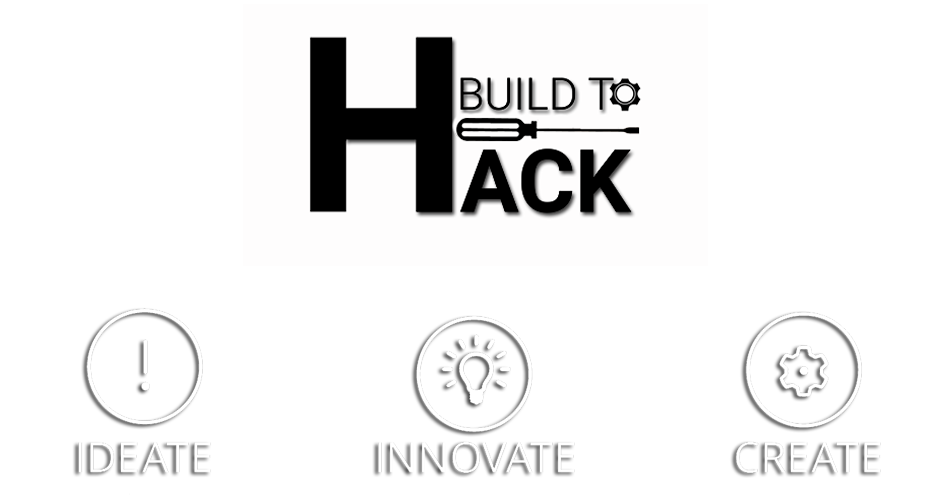
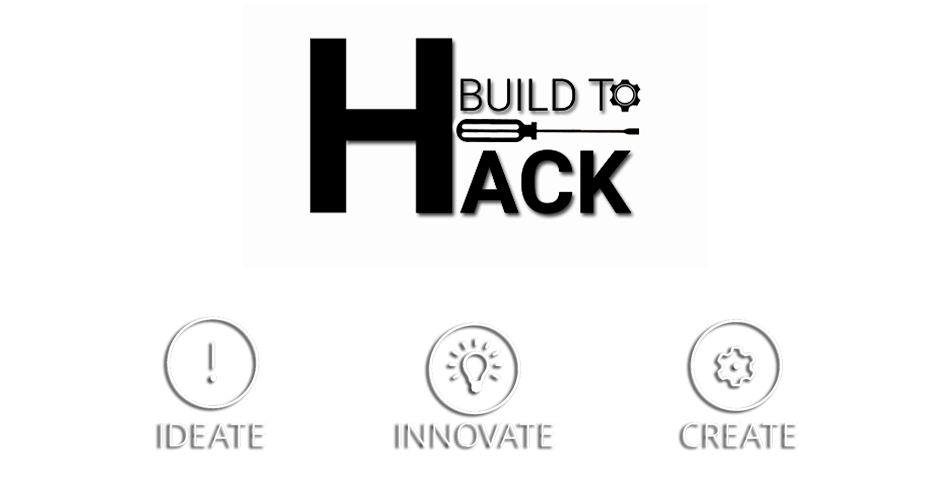
Changes

diff --git a/js/midnight.jquery.min.js b/js/midnight.jquery.min.js
@@ -1,0 +1,11 @@
+/*!
+ * Midnight.js 1.1.1
+ * jQuery plugin to switch between multiple fixed header designs on the fly, so it looks in line with the content below it.
+ * http://aerolab.github.io/midnight.js/
+ *
+ * Copyright (c) 2014 Aerolab <info@aerolab.co>
+ *
+ * Released under the MIT license
+ * http://aerolab.github.io/midnight.js/LICENSE.txt
+ */
+!function(t){"function"==typeof define&&define.amd?define(["jquery"],t):t(jQuery)}(function(t){var e=0,s=Array.prototype.slice;t.cleanData=function(e){return function(s){var i,n,o;for(o=0;null!=(n=s[o]);o++)try{i=t._data(n,"events"),i&&i.remove&&t(n).triggerHandler("remove")}catch(r){}e(s)}}(t.cleanData),t.widget=function(e,s,i){var n,o,r,a,h={},d=e.split(".")[0];return e=e.split(".")[1],n=d+"-"+e,i||(i=s,s=t.Widget),t.expr[":"][n.toLowerCase()]=function(e){return!!t.data(e,n)},t[d]=t[d]||{},o=t[d][e],r=t[d][e]=function(t,e){return this._createWidget?void(arguments.length&&this._createWidget(t,e)):new r(t,e)},t.extend(r,o,{version:i.version,_proto:t.extend({},i),_childConstructors:[]}),a=new s,a.options=t.widget.extend({},a.options),t.each(i,function(e,i){return t.isFunction(i)?void(h[e]=function(){var t=function(){return s.prototype[e].apply(this,arguments)},n=function(t){return s.prototype[e].apply(this,t)};return function(){var e,s=this._super,o=this._superApply;return this._super=t,this._superApply=n,e=i.apply(this,arguments),this._super=s,this._superApply=o,e}}()):void(h[e]=i)}),r.prototype=t.widget.extend(a,{widgetEventPrefix:o?a.widgetEventPrefix||e:e},h,{constructor:r,namespace:d,widgetName:e,widgetFullName:n}),o?(t.each(o._childConstructors,function(e,s){var i=s.prototype;t.widget(i.namespace+"."+i.widgetName,r,s._proto)}),delete o._childConstructors):s._childConstructors.push(r),t.widget.bridge(e,r),r},t.widget.extend=function(e){for(var i,n,o=s.call(arguments,1),r=0,a=o.length;a>r;r++)for(i in o[r])n=o[r][i],o[r].hasOwnProperty(i)&&void 0!==n&&(e[i]=t.isPlainObject(n)?t.isPlainObject(e[i])?t.widget.extend({},e[i],n):t.widget.extend({},n):n);return e},t.widget.bridge=function(e,i){var n=i.prototype.widgetFullName||e;t.fn[e]=function(o){var r="string"==typeof o,a=s.call(arguments,1),h=this;return o=!r&&a.length?t.widget.extend.apply(null,[o].concat(a)):o,r?this.each(function(){var s,i=t.data(this,n);return"instance"===o?(h=i,!1):i?t.isFunction(i[o])&&"_"!==o.charAt(0)?(s=i[o].apply(i,a),s!==i&&void 0!==s?(h=s&&s.jquery?h.pushStack(s.get()):s,!1):void 0):t.error("no such method '"+o+"' for "+e+" widget instance"):t.error("cannot call methods on "+e+" prior to initialization; attempted to call method '"+o+"'")}):this.each(function(){var e=t.data(this,n);e?(e.option(o||{}),e._init&&e._init()):t.data(this,n,new i(o,this))}),h}},t.Widget=function(){},t.Widget._childConstructors=[],t.Widget.prototype={widgetName:"widget",widgetEventPrefix:"",defaultElement:"<div>",options:{disabled:!1,create:null},_createWidget:function(s,i){i=t(i||this.defaultElement||this)[0],this.element=t(i),this.uuid=e++,this.eventNamespace="."+this.widgetName+this.uuid,this.bindings=t(),this.hoverable=t(),this.focusable=t(),i!==this&&(t.data(i,this.widgetFullName,this),this._on(!0,this.element,{remove:function(t){t.target===i&&this.destroy()}}),this.document=t(i.style?i.ownerDocument:i.document||i),this.window=t(this.document[0].defaultView||this.document[0].parentWindow)),this.options=t.widget.extend({},this.options,this._getCreateOptions(),s),this._create(),this._trigger("create",null,this._getCreateEventData()),this._init()},_getCreateOptions:t.noop,_getCreateEventData:t.noop,_create:t.noop,_init:t.noop,destroy:function(){this._destroy(),this.element.unbind(this.eventNamespace).removeData(this.widgetFullName).removeData(t.camelCase(this.widgetFullName)),this.widget().unbind(this.eventNamespace).removeAttr("aria-disabled").removeClass(this.widgetFullName+"-disabled ui-state-disabled"),this.bindings.unbind(this.eventNamespace),this.hoverable.removeClass("ui-state-hover"),this.focusable.removeClass("ui-state-focus")},_destroy:t.noop,widget:function(){return this.element},option:function(e,s){var i,n,o,r=e;if(0===arguments.length)return t.widget.extend({},this.options);if("string"==typeof e)if(r={},i=e.split("."),e=i.shift(),i.length){for(n=r[e]=t.widget.extend({},this.options[e]),o=0;i.length-1>o;o++)n[i[o]]=n[i[o]]||{},n=n[i[o]];if(e=i.pop(),1===arguments.length)return void 0===n[e]?null:n[e];n[e]=s}else{if(1===arguments.length)return void 0===this.options[e]?null:this.options[e];r[e]=s}return this._setOptions(r),this},_setOptions:function(t){var e;for(e in t)this._setOption(e,t[e]);return this},_setOption:function(t,e){return this.options[t]=e,"disabled"===t&&(this.widget().toggleClass(this.widgetFullName+"-disabled",!!e),e&&(this.hoverable.removeClass("ui-state-hover"),this.focusable.removeClass("ui-state-focus"))),this},enable:function(){return this._setOptions({disabled:!1})},disable:function(){return this._setOptions({disabled:!0})},_on:function(e,s,i){var n,o=this;"boolean"!=typeof e&&(i=s,s=e,e=!1),i?(s=n=t(s),this.bindings=this.bindings.add(s)):(i=s,s=this.element,n=this.widget()),t.each(i,function(i,r){function a(){return e||o.options.disabled!==!0&&!t(this).hasClass("ui-state-disabled")?("string"==typeof r?o[r]:r).apply(o,arguments):void 0}"string"!=typeof r&&(a.guid=r.guid=r.guid||a.guid||t.guid++);var h=i.match(/^([\w:-]*)\s*(.*)$/),d=h[1]+o.eventNamespace,l=h[2];l?n.delegate(l,d,a):s.bind(d,a)})},_off:function(e,s){s=(s||"").split(" ").join(this.eventNamespace+" ")+this.eventNamespace,e.unbind(s).undelegate(s),this.bindings=t(this.bindings.not(e).get()),this.focusable=t(this.focusable.not(e).get()),this.hoverable=t(this.hoverable.not(e).get())},_delay:function(t,e){function s(){return("string"==typeof t?i[t]:t).apply(i,arguments)}var i=this;return setTimeout(s,e||0)},_hoverable:function(e){this.hoverable=this.hoverable.add(e),this._on(e,{mouseenter:function(e){t(e.currentTarget).addClass("ui-state-hover")},mouseleave:function(e){t(e.currentTarget).removeClass("ui-state-hover")}})},_focusable:function(e){this.focusable=this.focusable.add(e),this._on(e,{focusin:function(e){t(e.currentTarget).addClass("ui-state-focus")},focusout:function(e){t(e.currentTarget).removeClass("ui-state-focus")}})},_trigger:function(e,s,i){var n,o,r=this.options[e];if(i=i||{},s=t.Event(s),s.type=(e===this.widgetEventPrefix?e:this.widgetEventPrefix+e).toLowerCase(),s.target=this.element[0],o=s.originalEvent)for(n in o)n in s||(s[n]=o[n]);return this.element.trigger(s,i),!(t.isFunction(r)&&r.apply(this.element[0],[s].concat(i))===!1||s.isDefaultPrevented())}},t.each({show:"fadeIn",hide:"fadeOut"},function(e,s){t.Widget.prototype["_"+e]=function(i,n,o){"string"==typeof n&&(n={effect:n});var r,a=n?n===!0||"number"==typeof n?s:n.effect||s:e;n=n||{},"number"==typeof n&&(n={duration:n}),r=!t.isEmptyObject(n),n.complete=o,n.delay&&i.delay(n.delay),r&&t.effects&&t.effects.effect[a]?i[e](n):a!==e&&i[a]?i[a](n.duration,n.easing,o):i.queue(function(s){t(this)[e](),o&&o.call(i[0]),s()})}}),t.widget}),function(t){"use strict";t.widget("aerolab.midnight",{options:{headerClass:"midnightHeader",innerClass:"midnightInner",defaultClass:"default",classPrefix:""},_headers:{},_headerInfo:{top:0,height:0},_$sections:[],_sections:[],_scrollTop:0,_documentHeight:0,_transformMode:!1,refresh:function(){this._headerInfo={top:0,height:this.element.outerHeight()},this._$sections=t("[data-midnight]"),this._sections=[],this._setupHeaders(),this.recalculate()},_create:function(){var e=this;this._scrollTop=window.pageYOffset||document.documentElement.scrollTop,this._documentHeight=t(document).height(),this._headers={},this._transformMode=this._getSupportedTransform(),this.refresh(),setInterval(function(){e._recalculateSections()},1e3),e.recalculate(),t(window).resize(function(){e.recalculate()}),this._updateHeadersLoop()},recalculate:function(){this._recalculateSections(),this._updateHeaderHeight(),this._recalculateHeaders(),this._updateHeaders()},_getSupportedTransform:function(){for(var t=["transform","WebkitTransform","MozTransform","OTransform","msTransform"],e=0;e<t.length;e++)if(void 0!==document.createElement("div").style[t[e]])return t[e];return!1},_getContainerHeight:function(){var e=this.element.find("> ."+this.options.headerClass),s=0,i=0,n=this;return e.length?e.each(function(){var e=t(this),o=e.find("> ."+n.options.innerClass);o.length?(o.css("bottom","auto").css("overflow","auto"),i=o.outerHeight(),o.css("bottom","0")):(e.css("bottom","auto"),i=e.outerHeight(),e.css("bottom","0")),s=i>s?i:s}):s=i=this.element.outerHeight(),s},_setupHeaders:function(){var e=this;this._headers[this.options.defaultClass]={},this._$sections.each(function(){var s=t(this),i=s.data("midnight");"string"==typeof i&&(i=i.trim(),""!==i&&(e._headers[i]={}))});({top:this.element.css("padding-top"),right:this.element.css("padding-right"),bottom:this.element.css("padding-bottom"),left:this.element.css("padding-left")});this.element.css({position:"fixed",top:0,left:0,right:0,overflow:"hidden"}),this._updateHeaderHeight();var s=this.element.find("> ."+this.options.headerClass);s.length?s.filter("."+this.options.defaultClass).length||s.filter("."+this.options.headerClass+":first").clone(!0,!0).attr("class",this.options.headerClass+" "+this.options.defaultClass):this.element.wrapInner('<div class="'+this.options.headerClass+" "+this.options.defaultClass+'"></div>');var s=this.element.find("> ."+this.options.headerClass),i=s.filter("."+this.options.defaultClass).clone(!0,!0);for(var n in this._headers)if(this._headers.hasOwnProperty(n)&&"undefined"==typeof this._headers[n].element){var o=s.filter("."+n);o.length?this._headers[n].element=o:this._headers[n].element=i.clone(!0,!0).removeClass(this.options.defaultClass).addClass(n).appendTo(this.element);var r={position:"absolute",overflow:"hidden",top:0,left:0,right:0,bottom:0};this._headers[n].element.css(r),this._transformMode!==!1&&this._headers[n].element.css(this._transformMode,"translateZ(0)"),this._headers[n].element.find("> ."+this.options.innerClass).length||this._headers[n].element.wrapInner('<div class="'+this.options.innerClass+'"></div>'),this._headers[n].inner=this._headers[n].element.find("> ."+this.options.innerClass),this._headers[n].inner.css(r),this._transformMode!==!1&&this._headers[n].inner.css(this._transformMode,"translateZ(0)"),this._headers[n].from="",this._headers[n].progress=0}s.each(function(){var s=t(this),i=!1;for(var n in e._headers)e._headers.hasOwnProperty(n)&&s.hasClass(n)&&(i=!0);s.find("> ."+e.options.innerClass).length||s.wrapInner('<div class="'+e.options.innerClass+'"></div>'),i?s.show():s.hide()})},_recalculateHeaders:function(){this._scrollTop=window.pageYOffset||document.body.scrollTop||document.documentElement.scrollTop,this._scrollTop=Math.max(this._scrollTop,0),this._scrollTop=Math.min(this._scrollTop,this._documentHeight);var t=this._headerInfo.height,e=this._scrollTop+this._headerInfo.top,s=e+t;if("function"==typeof window.getComputedStyle){var i=window.getComputedStyle(this.element[0],null),n=0,o=0;if(this._transformMode!==!1&&"string"==typeof i.transform){var r=i.transform.match(/(-?[0-9\.]+)/g);null!==r&&r.length>=6&&!isNaN(parseFloat(r[5]))&&(o=parseFloat(r[5]))}i.top.indexOf("px")>=0&&!isNaN(parseFloat(i.top))&&(n=parseFloat(i.top)),e+=n+o,s+=n+o}for(var a in this._headers)this._headers.hasOwnProperty(a)&&(this._headers[a].from="",this._headers[a].progress=0);for(var h=0;h<this._sections.length;h++)s>=this._sections[h].start&&e<=this._sections[h].end&&(this._headers[this._sections[h].className].visible=!0,e>=this._sections[h].start&&s<=this._sections[h].end?(this._headers[this._sections[h].className].from="top",this._headers[this._sections[h].className].progress+=1):s>this._sections[h].end&&e<this._sections[h].end?(this._headers[this._sections[h].className].from="top",this._headers[this._sections[h].className].progress=1-(s-this._sections[h].end)/t):s>this._sections[h].start&&e<this._sections[h].start&&("top"===this._headers[this._sections[h].className].from?this._headers[this._sections[h].className].progress+=(s-this._sections[h].start)/t:(this._headers[this._sections[h].className].from="bottom",this._headers[this._sections[h].className].progress=(s-this._sections[h].start)/t)))},_updateHeaders:function(){if("undefined"!=typeof this._headers[this.options.defaultClass]){var t=0,e="";for(var s in this._headers)this._headers.hasOwnProperty(s)&&""!==!this._headers[s].from&&(t+=this._headers[s].progress,e=s);1>t&&(""===this._headers[this.options.defaultClass].from?(this._headers[this.options.defaultClass].from="top"===this._headers[e].from?"bottom":"top",this._headers[this.options.defaultClass].progress=1-t):this._headers[this.options.defaultClass].progress+=1-t);for(var i in this._headers)if(this._headers.hasOwnProperty(i)&&""!==!this._headers[i].from){var n=100*(1-this._headers[i].progress);n>=100&&(n=110),-100>=n&&(n=-110),"top"===this._headers[i].from?this._transformMode!==!1?(this._headers[i].element[0].style[this._transformMode]="translateY(-"+n+"%) translateZ(0)",this._headers[i].inner[0].style[this._transformMode]="translateY(+"+n+"%) translateZ(0)"):(this._headers[i].element[0].style.top="-"+n+"%",this._headers[i].inner[0].style.top="+"+n+"%"):this._transformMode!==!1?(this._headers[i].element[0].style[this._transformMode]="translateY(+"+n+"%) translateZ(0)",this._headers[i].inner[0].style[this._transformMode]="translateY(-"+n+"%) translateZ(0)"):(this._headers[i].element[0].style.top="+"+n+"%",this._headers[i].inner[0].style.top="-"+n+"%")}}},_recalculateSections:function(){this._documentHeight=t(document).height(),this._sections=[];for(var e=0;e<this._$sections.length;e++){var s=t(this._$sections[e]);this._sections.push({element:s,className:s.data("midnight"),start:s.offset().top,end:s.offset().top+s.outerHeight()})}},_updateHeaderHeight:function(){this._headerInfo.height=this._getContainerHeight(),this.element.css("height",this._headerInfo.height+"px")},_updateHeadersLoop:function(){var t=this;this._requestAnimationFrame(function(){t._updateHeadersLoop()}),this._recalculateHeaders(),this._updateHeaders()},_requestAnimationFrame:function(t){var e=e||function(){return window.requestAnimationFrame||window.webkitRequestAnimationFrame||window.mozRequestAnimationFrame||function(t){window.setTimeout(t,1e3/60)}}();e(t)}})}(jQuery);

diff --git a/index.html b/index.html
@@ -10,29 +10,32 @@
  <script src="http://code.jquery.com/jquery-1.11.2.min.js"></script>
 <link href="http://www.jqueryscript.net/css/jquerysctipttop.css" rel="stylesheet" type="text/css">
 	<script type="text/javascript" src="css/typewriting.min.js"></script>
+	
  </head>
 
   <body>
  
  
-<div id="softarea" class="softarea"></div>
-<div id="blurarea" class="blurarea"></div>
+
 <nav class="navbar navbar-inverse navbar-fixed-top">
   <div class="container-fluid">
     <div class="navbar-header">
       <a class="navbar-brand" href="#"><img src="images/PictureLogo.png" style="margin-top:-13;"></a>
       <a class="navbar-brand pull-right"  href="#"><img src="images/header-menu.png" style="margin-top:-13;" id="menuicon"></a>
     </div>
-    <ul class="nav navbar-nav">
-      <li><a href="#">HOME</a></li>
-      <li><a href="#">SCHEDULE</a></li>
-      <li><a href="#">MATERIAL</a></li> 
-      <li><a href="#">REGISTER</a></li>
-      <li><a href="#">SPONSORS</a></li>  
+    <ul class="nav navbar-nav" style="font-family:venus rising">
+      <li class="active"><a href="#">HOME</a></li>
+      <li><a href="#schedule">SCHEDULE</a></li>
+      <li><a href="#material">MATERIAL</a></li> 
+      <li><a href="#register">REGISTER</a></li>
+      <li><a href="#sponsors">SPONSORS</a></li>  
       
     </ul>
   </div>
 </nav>
+
+
+
 <!-- <div class="terminal" style="margin-top: 5%;"></div> -->
     <script>
 $(document).ready( function(){
@@ -68,8 +71,11 @@ $(document).ready( function(){
   })();
 
 </script>
-
+<div id="home">
+<div id="softarea" class="softarea"></div>
+<div id="blurarea" class="blurarea"></div>
 <div id="header" class="header"><img onload="this.style.opacity='1';" src="images/Picture1.png" id="logo" style=" width:100%;margin-top: 4%;"></div>
+</div>
 
 
     <svg:svg>
@@ -79,7 +85,25 @@ $(document).ready( function(){
 	</svg:svg>
 
 <div id="scroll" style="position: absolute;bottom: 0;right: 0;"><a href="#"><img onload="this.style.opacity='1';" src="images/scroll.png"></a></div>
+<div id="schedule" style="height:700px;
+width: 100%;">
+<h2>SCHEDULE</h2>
+</div>
 
+<div id="material" style="height: 700px;
+width: 100%;">
+<h2>MATERIAL</h2>
+</div>
+
+<div id="register" style="height: 700px;
+width: 100%;">
+<h2>REGISTER</h2>
+</div>
+
+<div id="sponsors" style="height: 700px;
+width: 100%;">
+<h2>SPONSORS</h2>
+</div>
 
 <script type="text/javascript">
 
@@ -151,7 +175,28 @@ function adjustStyle(width)
     				
         	}
     }
-       
+
+   $(document).scroll(function(){
+    if($(this).scrollTop() >300)
+    {     
+    $("#header").animate({opacity: "0.1"},2000);   
+    }
+     
+});
+    $(document).scroll(function(){
+    if($(this).scrollTop()<100)
+    {     
+    $("#header").animate({opacity: "1"},1000);   
+    }
+     
+});
+    
+    $(document).ready(function(){
+  $('.navbar.container-fluid ul li a').click(function(){
+    $('li a').removeClass("active");
+    $(this).addClass("active");
+});
+});   
 
 
 </script>

diff --git a/main.js b/main.js
@@ -1,0 +1,33 @@
+
+$(document).ready( function(){
+	setTimeout( function(){
+		$('.terminal').typewriting( "TAG Club ,VIT Brings Build-to-Hack", {
+			"typing_interval": 200,
+			"blink_interval": "1s",
+			"cursor_color": "#C5E3BF"
+		}, function() {
+			console.log( "END" );
+		});
+		
+		setTimeout( function(){
+			$('.terminal').rewrite( "Stay tuned for updates", function(){
+				console.log( "END, 2." );
+			});
+		}, 3300);
+	}, 1000);
+});
+
+
+
+  var _gaq = _gaq || [];
+  _gaq.push(['_setAccount', 'UA-36251023-1']);
+  _gaq.push(['_setDomainName', 'jqueryscript.net']);
+  _gaq.push(['_trackPageview']);
+
+  (function() {
+    var ga = document.createElement('script'); ga.type = 'text/javascript'; ga.async = true;
+    ga.src = ('https:' == document.location.protocol ? 'https://ssl' : 'http://www') + '.google-analytics.com/ga.js';
+    var s = document.getElementsByTagName('script')[0]; s.parentNode.insertBefore(ga, s);
+  })();
+
+

diff --git a/css/style.css b/css/style.css
@@ -1,4 +1,7 @@
 
+#home{
+height: 800px;
+}
 .softarea {
   background: url('images/Hackathon-028.jpg') no-repeat fixed;
   background-repeat:no-repeat;
@@ -49,7 +52,7 @@
   z-index: 1;
 }
 .header img{
-  
+
   opacity:0;
 -moz-transition: opacity 4s; /* Firefox 4 */
 -webkit-transition: opacity 4s; /* Safari and Chrome */
@@ -80,4 +83,10 @@ h1 a{
 h1 a:hover{
   background-color:#000;
   opacity: 0.5;
+}
+
+ h2{
+  text-align: center;
+  font-family: "Montserrat", "Helvetica Neue", Helvetica, Arial, sans-serif;
+  padding-top:6%;
 }
